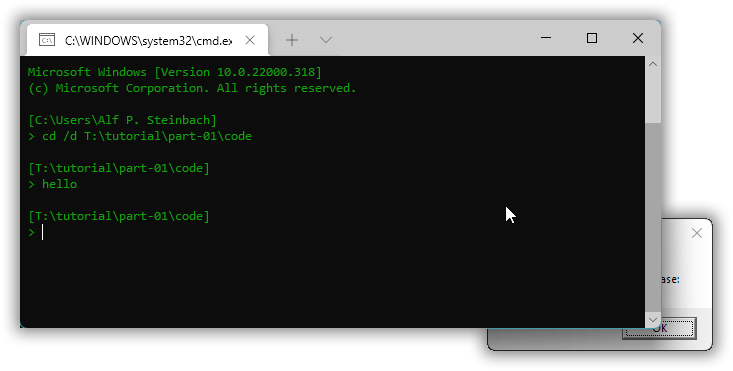
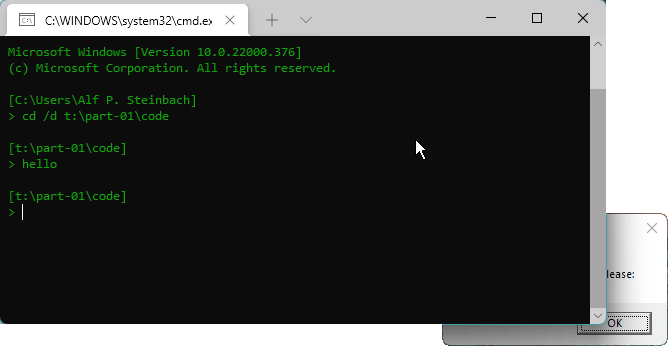
-

Changed region(s): [[0.0, 0.0, 1.0, 1.0], [0.6886, 0.5491, 0.7186, 0.6069], [0.5988, 0.4046, 0.6287, 0.4335]]

diff --git a/docs/part-01.md b/docs/part-01.md
@@ -83,32 +83,32 @@ How you specify the GUI subsystem depends on the compiler, but in general it use
 For example, here’s how to build with GUI subsystem with the MinGW g++ compiler, using option **`-mwindows`**:
 
 ~~~txt
-[T:\tutorial\part-01\code]
+[T:\part-01\code]
 > g++ --version | find "++"
 g++ (GCC) 9.2.0
 
-[T:\tutorial\part-01\code]
+[T:\part-01\code]
 > g++ -mwindows hello.cpp
 
-[T:\tutorial\part-01\code]
+[T:\part-01\code]
 > a.exe_
 ~~~
 
 The corresponding option for Visual C++, **`/subsystem:windows`**, must be provided as a linker option, i.e. in a simple “let the compiler invoke the linker” build command it must come after option `/link`. And unfortunately, when the GUI subsystem is requested the Microsoft linker defaults to looking for a non-standard startup function called `WinMain`, instead of standard C++ `main`. In order to get standard `main` you can use linker option **`/entry:mainCRTStartup`**, which perhaps is best provided via the **`LINK`** environment variable:
 
 ~~~txt
-[T:\tutorial\part-01\code]
+[T:\part-01\code]
 > cl /? 2>&1 | find "++"
 Microsoft (R) C/C++ Optimizing Compiler Version 19.30.30705 for x64
 
-[T:\tutorial\part-01\code]
+[T:\part-01\code]
 > set LINK=/entry:mainCRTStartup
 
-[T:\tutorial\part-01\code]
+[T:\part-01\code]
 > cl /nologo hello.cpp /link /subsystem:windows user32.lib
 hello.cpp
 
-[T:\tutorial\part-01\code]
+[T:\part-01\code]
 > hello.exe_
 ~~~
 
@@ -169,7 +169,7 @@ When I run the program via double clicking in Windows Explorer the focus is miss
 
 And when I run the program via a command (e.g. `hello` or `a`) in a command interpreter that itself was started via the Run dialog, then the message box is not on top and can be partially or fully obscured by the command interpreter window, and/or by some other window:
 
-![Obscured](part-01/images/sshot.behavior.obscured.annotated.png)
+![Obscured](part-01/images/sshot.behavior.obscured.shadow.annotated.png)
 
 The case of fully obscured is especially problematic and insidious.
 
@@ -186,7 +186,7 @@ The **`MB_SETFOREGROUND`** foreground flag in the `MessageBox` call,
 So, if you run a GUI program in Windows 11 or later and it doesn’t appear:
 
 * look in the task bar to check if the program is running, and perhaps
-* use [Alt]+[Tab] to check if the window is just obscured, before
+* use `Alt`+`Tab` to check if the window is just obscured, before
 * checking in the Task Manager whether the executable is running without a window.
 
 | ← previous |  up ↑ | next → |
